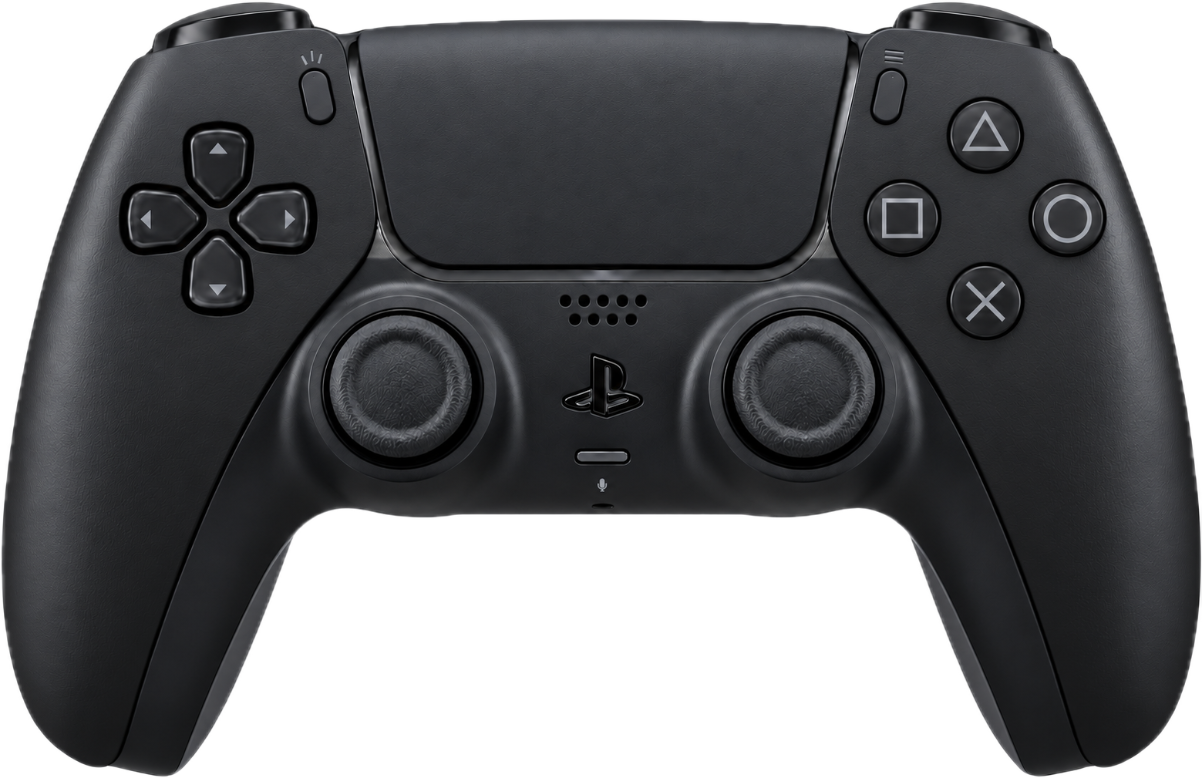
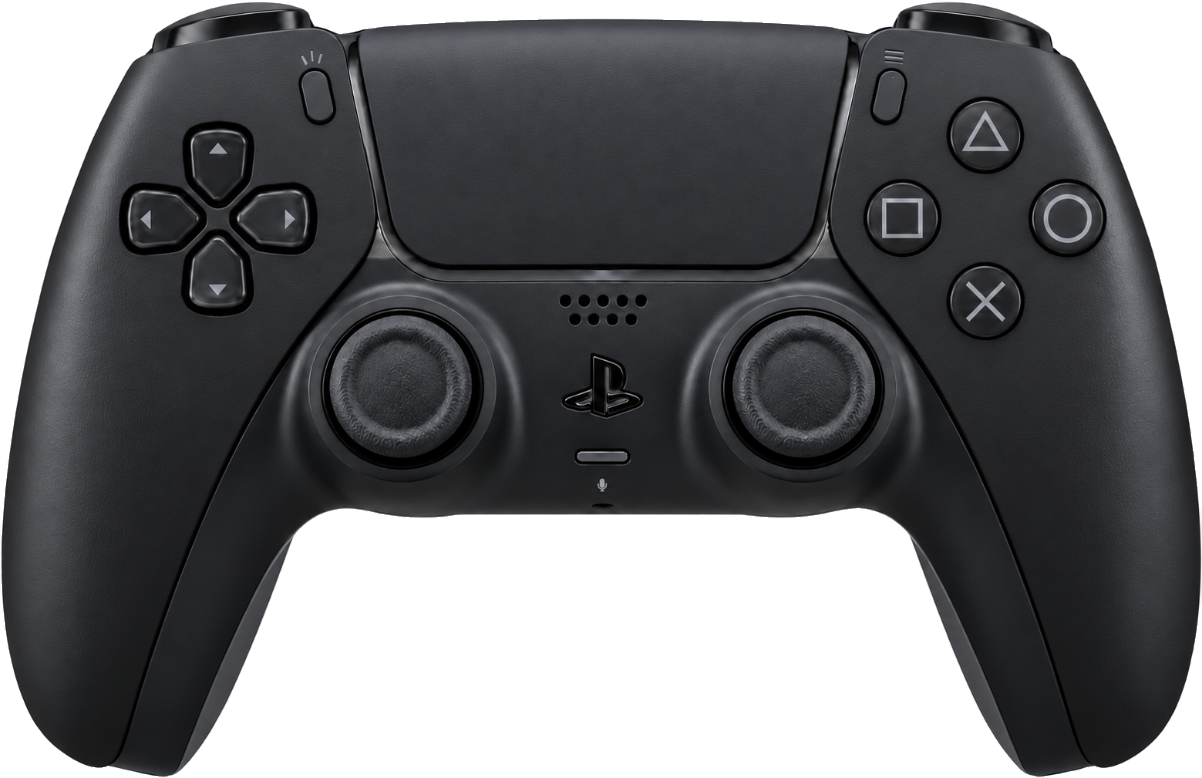
fix(pads): cutout edges follow the render's outline, not Vision's 512px grid
Every cutout's silhouette stair-stepped at 400%. Vision's foreground mask is
512x512 whatever the source, so on a 1536x1024 render each cell is 3x2 pixels
and its outline steps every few pixels and sits up to two off the drawn edge;
the old contrast stretch drew those steps as a sawtooth. A guided filter now
refits the mask to the render's luminance, which puts the outline on the
render's own smooth edge, and the refit value divided by its slope gives a
one-pixel ramp. Where the pad is far from its backdrop (the Midnight
DualSense on white) each edge pixel's alpha comes from its colour, since a
geometric ramp left a dotted light rim there on dark pages.

The Midnight DualSense had shipped with Vision's raw soft matte, a white halo
on dark pages, because its Codex source was never kept. Its cutout still held
every generated pixel the matte touched, so laying it on white recovers the
source; it is now a pad-cut family like the rest.

Boxes in crop.json are now pinned once written (the control outlines and page
sizes depend on them); the DualShock 4's had moved by a pixel under the new
edge. Every cutout keeps its size; the script refuses if a pad outgrows its box.

Staircase metric, RMS distance of the alpha=0.5 isoline from itself smoothed
along its length (smooth disc 0.045, 3x nearest-upscaled disc 0.546):
0.23-0.28 before, 0.10-0.17 after, on all eleven cutouts.

Claude-Session: https://claude.ai/code/session_01A2kN9smtopK9dEJVkxHDmz

diff --git a/scripts/pad-cut.py b/scripts/pad-cut.py
@@ -5,7 +5,7 @@
 """Re-cut the per-app pads from the generated sources (PHOTO-SOURCES.md).
 
 Vision's foreground mask (scripts/subject.swift) at the source's native
-resolution, its soft ramp tightened to ~2px so the edge is crisp, and the
+resolution, refitted to the render's own outline as a 1px ramp, and the
 background un-mixed from the edge pixels (the renders sit on near-white, which
 otherwise haloes on the night stage). Nothing inside the pad is touched.
 Written at min(native, 2x the displayed size): never upscaled. PNG masters;
@@ -19,7 +19,7 @@ import sys
 
 import numpy as np
 from PIL import Image
-from scipy.ndimage import binary_fill_holes, gaussian_filter
+from scipy.ndimage import binary_fill_holes, gaussian_filter, uniform_filter
 
 G = os.environ.get("PAD_SRC", "tools/pads/given/")  # tools/pads/PHOTO-SOURCES.md
 V = os.environ.get("PAD_MASKS", "scratch/cut/")  # remade by subject.swift when missing or stale
@@ -38,6 +38,9 @@ PADS = {
     "graphite": ("generic-graphite-src.png", 1202),
     "white": ("generic-white-src.png", 1202),
     "navy": ("generic-navy-src.png", 1202),
+    # Midnight Black, for dark pages: a Codex edit of cut-ps-unlit.png in the same
+    # pose and frame, so its box is the whole image and ps's outlines fit it.
+    "ps-unlit-dark": ("dualsense midnight-src.png", 1202),
 }
 THUMB = 224  # 2x a 112px picker thumbnail
 
@@ -59,6 +62,43 @@ def unlit(rgb):
     lum = rgb @ [0.2126, 0.7152, 0.0722]
     grey = np.clip(lum * 1.9 + 0.12, 0, 0.86)
     return rgb * (1 - blue[..., None]) + grey[..., None] * blue[..., None]
+
+
+def edge(a, rgb, r=5, eps=1e-3):
+    """A one-pixel antialiased edge on the photo's own outline, not the mask's.
+    Vision's mask is 512x512 whatever the source (3x by 2x cells on a 1536x1024
+    render), so its outline steps every few pixels and sits up to two off the
+    real edge; tightening it as it came drew those steps as a sawtooth. A guided
+    filter (He et al.) refits the mask to the render's luminance over r pixels,
+    which moves the outline onto the drawn edge, smooth because the render is.
+    Dividing by the slope turns the refit value into a distance from its 0.5
+    line, so the ramp is one pixel wide."""
+    lum = rgb @ [0.2126, 0.7152, 0.0722]
+    mean = lambda x: uniform_filter(x, 2 * r + 1)
+    mi, ma = mean(lum), mean(a)
+    k = (mean(lum * a) - mi * ma) / (mean(lum * lum) - mi * mi + eps)
+    q = mean(k) * lum + mean(ma - k * mi)
+    gy, gx = np.gradient(q)
+    return np.clip((q - 0.5) / np.maximum(np.hypot(gx, gy), 1e-4) + 0.5, 0, 1)
+
+
+def coverage(rgb, a, bg):
+    """Each edge pixel's own coverage, where the pad is far enough from the backdrop
+    to read it. A one-pixel ramp is right on average but not pixel by pixel, and
+    a pixel it calls solid that is a quarter backdrop shows as a light dot on a
+    dark page: the Midnight DualSense, on white, drew a dotted rim. Projecting
+    the pixel onto the line from the backdrop to the pad's colour just inside
+    gives its coverage. On a grey backdrop the pad's own shading is as far from
+    its colour as the backdrop is, so there the ramp stands."""
+    solid = (a >= 0.98).astype(np.float64)
+    inside = gaussian_filter(rgb * solid[..., None], (2, 2, 0)) / np.maximum(gaussian_filter(solid, 2), 1e-6)[..., None]
+    v = inside - bg
+    far = np.sqrt((v ** 2).mean(-1))
+    seen = np.clip(((rgb - bg) * v).sum(-1) / np.maximum((v ** 2).sum(-1), 1e-6), 0, 1)
+    ramp = (a > 0) & (a < 1)
+    near = ramp | np.roll(ramp, 1, 0) | np.roll(ramp, -1, 0) | np.roll(ramp, 1, 1) | np.roll(ramp, -1, 1)
+    w = np.clip((far - 0.5) / 0.2, 0, 1) * near * (gaussian_filter(solid, 2) > 0.05)
+    return a + w * (seen - a)
 
 
 def cutout(rgb, a, bg, box, want):
@@ -86,22 +126,29 @@ for fam in sys.argv[1:] or PADS:
     # came out as a hole); anything fully enclosed by the pad is the pad.
     a = np.maximum(a, binary_fill_holes(a > 0.5).astype(np.float64))
     # Vision's matte sits a pixel or so outside the true edge, so un-mixing
-    # there brightens the rim; erode by one source pixel before tightening.
+    # there brightens the rim; erode by one source pixel before refitting.
     a = np.minimum.reduce([a, np.roll(a, 1, 0), np.roll(a, -1, 0), np.roll(a, 1, 1), np.roll(a, -1, 1)])
-    a = np.clip((a - 0.55) / 0.4 + 0.5, 0, 1)
     bg = np.median(np.concatenate([rgb[:8].reshape(-1, 3), rgb[-8:].reshape(-1, 3)]), axis=0)
+    a = coverage(rgb, edge(a, rgb), bg)
     ys, xs = np.where(a > 0.02)
     p = 4
     y0, y1 = max(ys.min() - p, 0), min(ys.max() + p + 1, a.shape[0])
     x0, x1 = max(xs.min() - p, 0), min(xs.max() + p + 1, a.shape[1])
+    # A box already in crop.json stays put: the control outlines and the pages'
+    # image sizes are measured against it. It only has to still hold the pad.
+    if fam in crops:
+        x0, y0, x1, y1 = crops[fam]
+        if xs.min() < x0 or ys.min() < y0 or xs.max() >= x1 or ys.max() >= y1:
+            sys.exit(f"{fam}: the pad no longer fits its box in {CROP}")
     crops[fam] = [int(x0), int(y0), int(x1), int(y1)]
     im = cutout(rgb, a, bg, crops[fam], want)
     im.save(OUT + f"cut-{fam}.png", optimize=True)
     if fam == "ps":
         cutout(unlit(rgb), a, bg, crops[fam], want).save(OUT + "cut-ps-unlit.png", optimize=True)
-    t = im.resize((THUMB, round(im.height * THUMB / im.width)), Image.LANCZOS)
-    t.save(OUT + f"thumb-{fam}.png", optimize=True)
-    print(fam, "native", x1 - x0, "x", y1 - y0, "->", im.size, "thumb", t.size, "bg", bg.round(3), file=sys.stderr)
+    if fam != "ps-unlit-dark":  # the picker shows the light DualSense
+        t = im.resize((THUMB, round(im.height * THUMB / im.width)), Image.LANCZOS)
+        t.save(OUT + f"thumb-{fam}.png", optimize=True)
+    print(fam, "native", x1 - x0, "x", y1 - y0, "->", im.size, "bg", bg.round(3), file=sys.stderr)
 with open(CROP, "w") as f:
     json.dump(crops, f)
     f.write("\n")

diff --git a/tools/pads/PHOTO-SOURCES.md b/tools/pads/PHOTO-SOURCES.md
@@ -181,6 +181,20 @@ rejected candidates and why.
   decoration paths are empty, which `pad-export-app.py` now allows for
   decoration only.
 
+### DualSense (Midnight Black) -> `dualsense midnight-src.png`
+
+- **Source:** generated, not photographed. A Codex image edit, 2026-10-07
+  (steer-site 61ea5d4), of `cut-ps-unlit.png` in the same pose at its exact
+  1202x778, on white. That output was not kept; the cutout it made was
+  committed with Vision's raw soft matte, so every pixel with any alpha still
+  held the generated colour. The source was recovered on 2026-10-13 by laying
+  that cutout on white, so it reproduces the generated image wherever the pad
+  or its edge was.
+- **Licence:** none needed; no third party's photo or scan.
+- **Cut:** `scripts/pad-cut.py ps-unlit-dark`, box the whole frame
+  (`crop.json`), so `art/controls-ps.svg` fits it unchanged. The pad touches
+  the frame's edges, as it did.
+
 ## Superseded
 
 ### DualSense (white) -> was `dualsense-src.png` (installed 5a41a9d, 2026-09-27)
